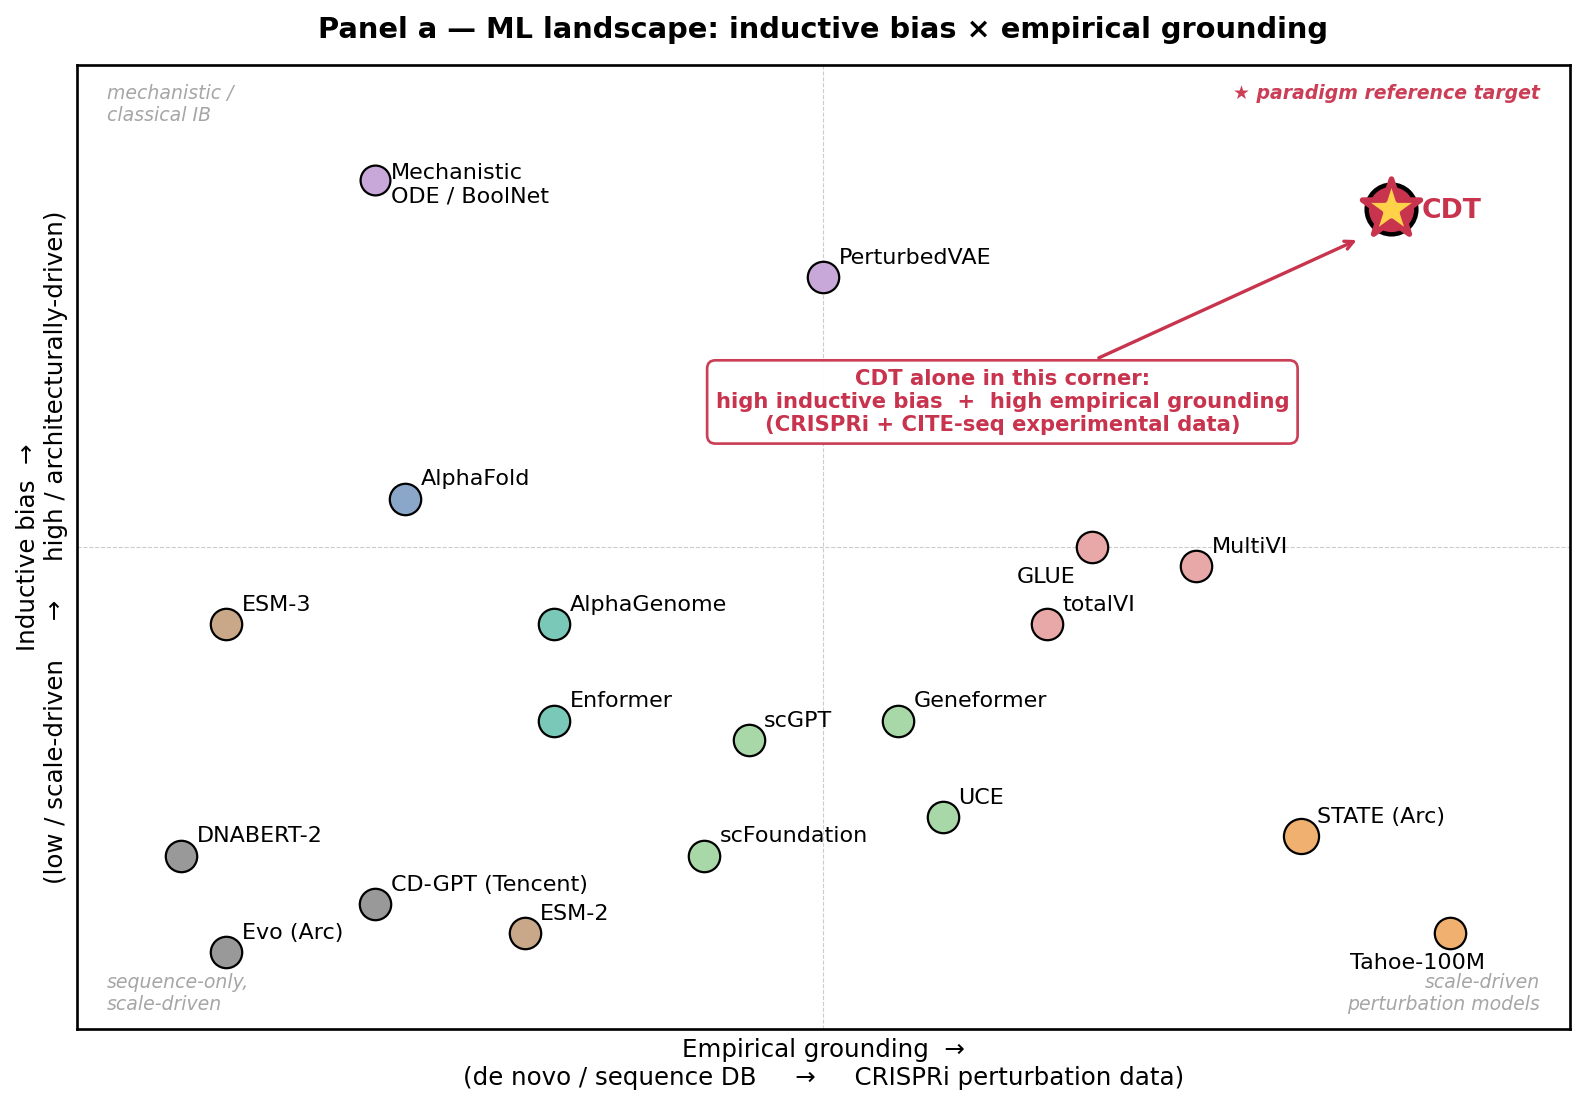
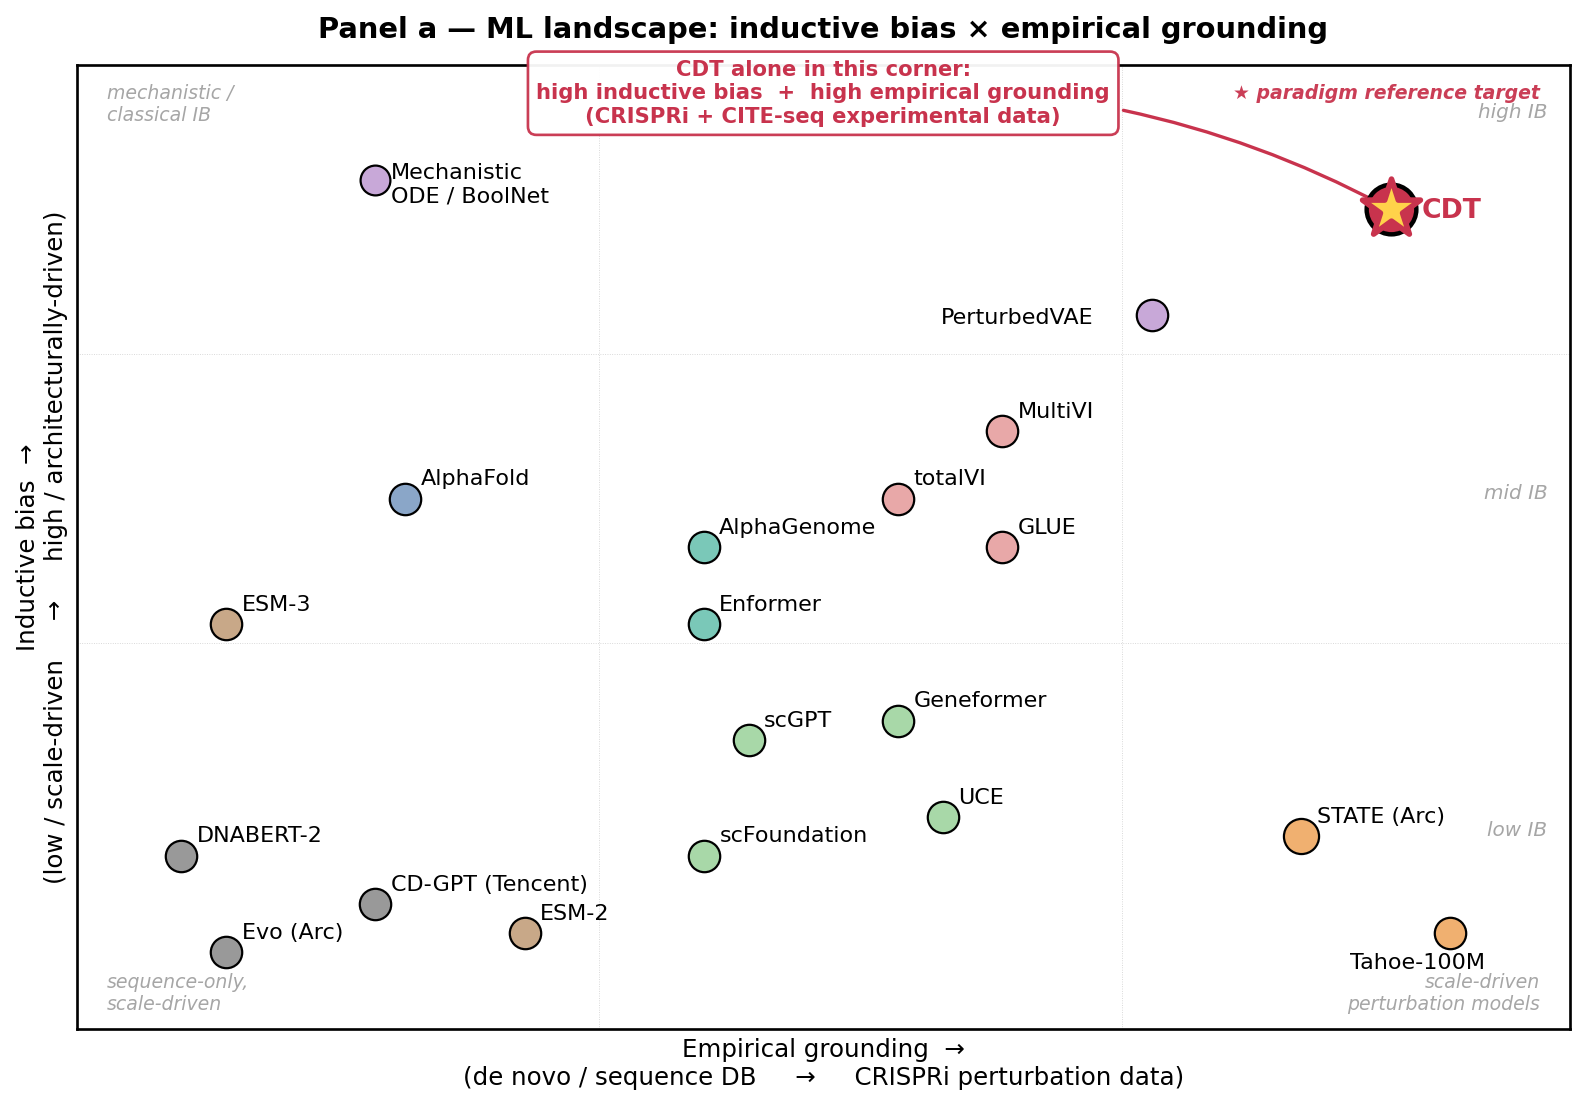
Restructure panel a: 3-tier grid (low/mid/high IB × de novo/obs/perturb)
Previous 2-quadrant view at y=0.5/x=0.5 left several markers ambiguous
near boundaries (multi-omics at y=0.42-0.50, Enformer/AlphaGenome at
x=0.32). Replace with 3x3 grid:
  Y (IB):        low (0-0.40) / mid (0.40-0.70) / high (0.70-1.0)
  X (empirical): de novo (0-0.35) / observational (0.35-0.70) /
                  perturbation (0.70-1.0)

Reposition outlier markers to their semantically correct cells:
  Enformer/AlphaGenome: x 0.32 → 0.42 (observational tier)
  AlphaGenome y: 0.42 → 0.50, Enformer y: 0.32 → 0.42 (mid IB)
  Multi-omics (totalVI/MultiVI/GLUE): consolidated in (obs, mid IB) cell
  PerturbedVAE: x 0.50 → 0.72 (CRISPRi-trained, perturbation tier)

CDT remains alone at extreme (perturbation, high IB) corner. PerturbedVAE
now shares the cell but positioned at lower-left extreme — visualizes
"ally in IB camp" (per field consensus framing) without diluting CDT
uniqueness. Two cells remain empty (observational/high-IB and
perturbation/mid-IB), making field gaps visible.

Add right-side IB tier labels (low IB / mid IB / high IB), move CDT
annotation box from middle (which collided with multi-omics) to
upper-middle empty zone.

diff --git a/figures/neurips/appendix/make_landscape_figs.py b/figures/neurips/appendix/make_landscape_figs.py
@@ -22,22 +22,22 @@ models_a = [
     (0.30, 0.10, "ESM-2",             "#c8a888", 200,  7,  6),
     (0.10, 0.42, "ESM-3",             "#c8a888", 200,  7,  6),
     # Sequence-to-function family (observational genomic data, DNA → multi-output)
-    (0.32, 0.42, "AlphaGenome",       "#7ac8b8", 200,  7,  6),
-    (0.32, 0.32, "Enformer",          "#7ac8b8", 200,  7,  6),
+    (0.42, 0.50, "AlphaGenome",       "#7ac8b8", 200,  7,  6),
+    (0.42, 0.42, "Enformer",          "#7ac8b8", 200,  7,  6),
     # Single-cell RNA foundation models (slight horizontal jitter)
     (0.45, 0.30, "scGPT",             "#a8d8a8", 200,  7,  6),
     (0.42, 0.18, "scFoundation",      "#a8d8a8", 200,  7,  6),
     (0.58, 0.22, "UCE",               "#a8d8a8", 200,  7,  6),
     (0.55, 0.32, "Geneformer",        "#a8d8a8", 200,  7,  6),
-    # Multi-omics integration (VAE / graph) — observational multi-modal data
-    (0.65, 0.42, "totalVI",           "#e8a8a8", 200,  7,  6),
-    (0.75, 0.48, "MultiVI",           "#e8a8a8", 200,  7,  6),
-    (0.68, 0.50, "GLUE",              "#e8a8a8", 200, -34, -16),
+    # Multi-omics integration (VAE / graph) — observational multi-modal data, mid IB
+    (0.55, 0.55, "totalVI",           "#e8a8a8", 200,  7,  6),
+    (0.62, 0.62, "MultiVI",           "#e8a8a8", 200,  7,  6),
+    (0.62, 0.50, "GLUE",              "#e8a8a8", 200,  7,  6),
     # Scale-driven perturbation
     (0.82, 0.20, "STATE (Arc)",       "#f0b070", 250,  7,  6),
     (0.92, 0.10, "Tahoe-100M",        "#f0b070", 200, -45, -16),
     # High-IB camp
-    (0.50, 0.78, "PerturbedVAE",      "#c8a8d8", 200,  7,  6),
+    (0.72, 0.74, "PerturbedVAE",      "#c8a8d8", 200,  -95,  -4),
     (0.20, 0.88, "Mechanistic\nODE / BoolNet", "#c8a8d8", 180,  7,  -10),
     # CDT
     (0.88, 0.85, "CDT",               "#c8334d", 500, 14, -4),
@@ -58,14 +58,15 @@ for x, y, name, color, size, dx, dy in models_a:
                 fontweight=weight,
                 color="#c8334d" if name == "CDT" else "black")
 
-# CDT corner annotation — moved into empty middle-right space, no title overlap
+# CDT corner annotation — upper-middle empty zone, just below title
 ax.annotate("CDT alone in this corner:\nhigh inductive bias  +  high empirical grounding\n(CRISPRi + CITE-seq experimental data)",
-            xy=(0.86, 0.82), xytext=(0.62, 0.62),
+            xy=(0.88, 0.85), xytext=(0.50, 0.94),
             fontsize=9.5, color="#c8334d", fontweight="bold",
             ha="center",
             bbox=dict(boxstyle="round,pad=0.4", fc="white",
                       ec="#c8334d", lw=1.2, alpha=0.95),
-            arrowprops=dict(arrowstyle="->", color="#c8334d", lw=1.5))
+            arrowprops=dict(arrowstyle="->", color="#c8334d", lw=1.5,
+                            connectionstyle="arc3,rad=-0.15"))
 
 # Axes
 ax.set_xlim(0, 1)
@@ -77,14 +78,20 @@ ax.set_ylabel("Inductive bias  →\n(low / scale-driven     →     high / archi
 ax.set_title("Panel a — ML landscape: inductive bias × empirical grounding",
              fontsize=13, fontweight="bold", pad=12)
 
-# Quadrant guides
-ax.axhline(0.5, color="gray", linewidth=0.5, linestyle="--", alpha=0.4)
-ax.axvline(0.5, color="gray", linewidth=0.5, linestyle="--", alpha=0.4)
+# Tier guidelines (3-tier on both axes: low/mid/high IB; de novo / observational / perturbation)
+for ytick in [0.40, 0.70]:
+    ax.axhline(ytick, color="gray", linewidth=0.4, linestyle=":", alpha=0.35)
+for xtick in [0.35, 0.70]:
+    ax.axvline(xtick, color="gray", linewidth=0.4, linestyle=":", alpha=0.35)
 ax.set_xticks([])
 ax.set_yticks([])
 for spine in ax.spines.values():
     spine.set_linewidth(1.2)
 
+# Tier labels — IB on right axis, empirical on bottom axis
+ax.text(0.985, 0.20, "low IB",     fontsize=9, color="gray", style="italic", alpha=0.7, ha="right")
+ax.text(0.985, 0.55, "mid IB",     fontsize=9, color="gray", style="italic", alpha=0.7, ha="right")
+ax.text(0.985, 0.96, "high IB",    fontsize=9, color="gray", style="italic", alpha=0.7, ha="right", va="top")
 # Quadrant hint labels — repositioned away from data
 ax.text(0.02, 0.02, "sequence-only,\nscale-driven", fontsize=8.5,
         color="gray", style="italic", alpha=0.7)